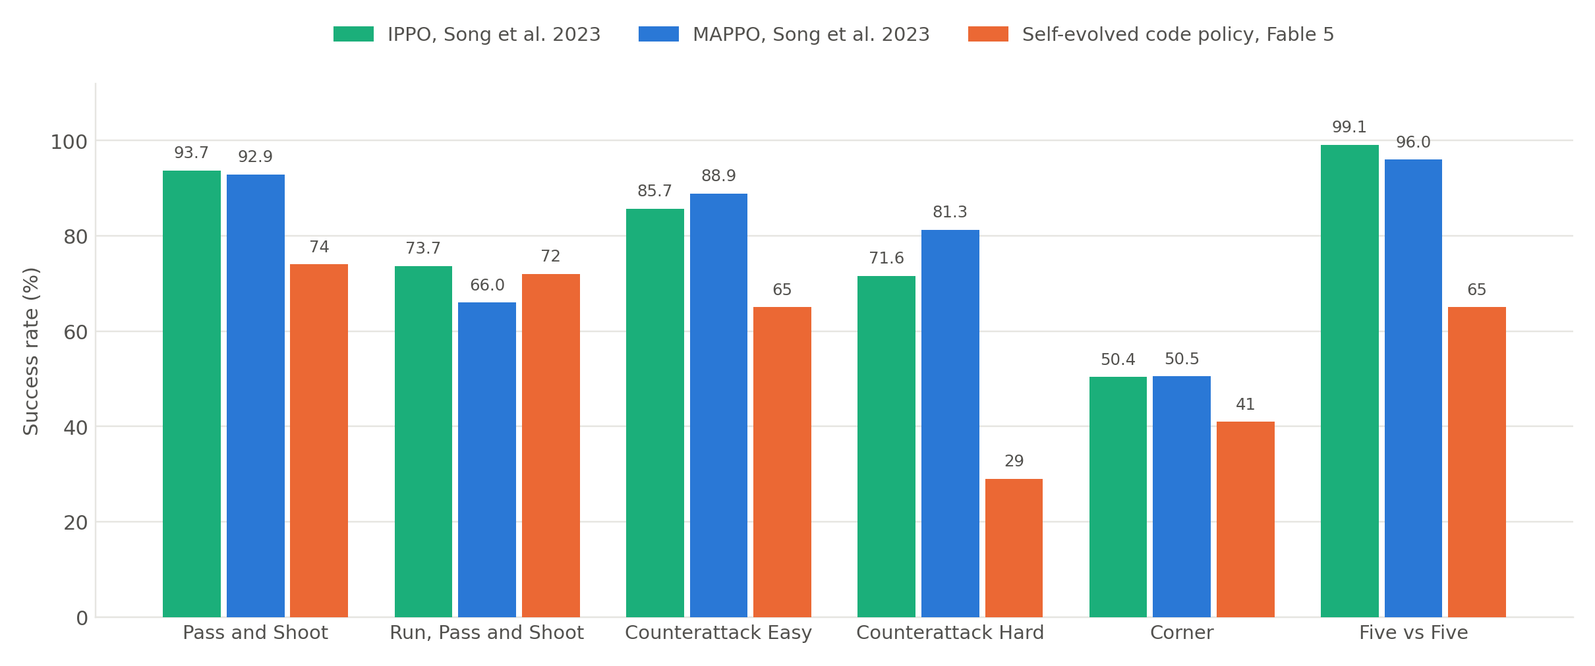
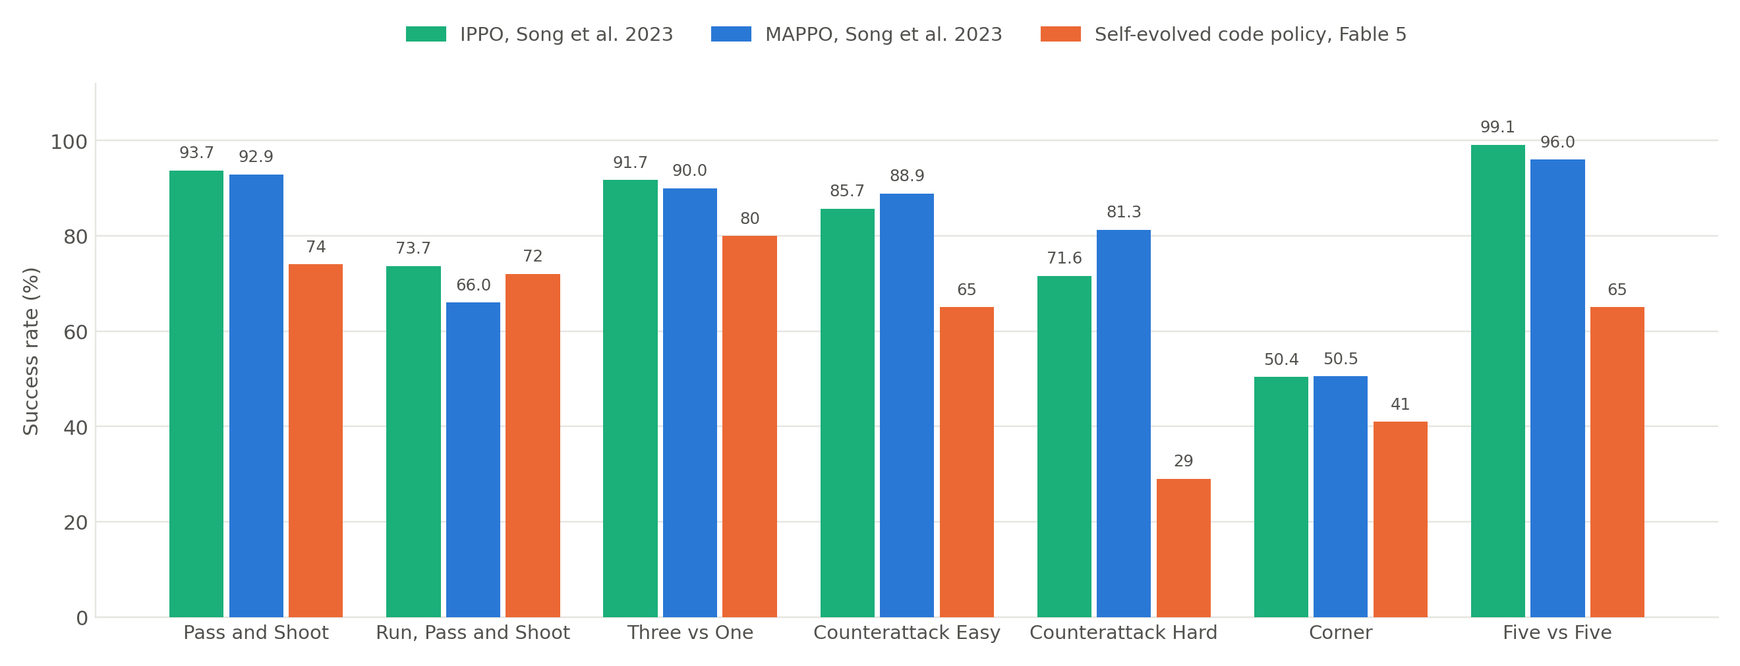
Restructure into Results and Analysis; add Three vs One, fixed-seed memorization, CA hard case study, strategy/control/policy-class comparison

diff --git a/_posts/2026-10-31-self-improvement-ends-with-a-proof.md b/_posts/2026-10-31-self-improvement-ends-with-a-proof.md
@@ -1,16 +1,16 @@
 ---
 title: "Recursive Self-Improvement for Multi-Agent Coordination: What Ten Rounds Discover in Overcooked and Football"
 date: 2026-10-31
-description: "A language model writes a joint controller, runs it, reads the trace, and rewrites it, ten times. In Overcooked the loop discovers coordination that passes trained MARL; in Google Research Football it strips coordination out. The round-by-round record shows how."
+description: "A language model writes a joint controller, runs it, reads the trace, and rewrites it. In Overcooked the loop discovers coordination that passes trained MARL; in Google Research Football it strips coordination out and, given a fixed seed, memorizes it. The round-by-round record shows how."
 tags: [recursive self-improvement, agents, code as policy, multi agent systems]
-reading_time: "10 min"
+reading_time: "14 min"
 permalink: /blog/self-improvement-ends-with-a-proof/
 image: /assets/img/research/overcooked-rsi-ten-rounds.png
 ---
 
-Multi-agent coordination is usually learned: a MARL algorithm samples millions of joint rollouts and shapes a policy whose agents divide labor, stagger their cycles, and hand objects to each other. This post asks whether a language model can discover the same coordination by recursive self-improvement instead, writing the joint controller as a program, watching it run, and rewriting it, with no gradient and no change to its weights. We ran that loop for a hard ten rounds on five Overcooked layouts with two frontier models, and on six Google Research Football scenarios with one under a softer budget, and kept every proposal, trace, and search script.
+Multi-agent coordination is usually learned: a MARL algorithm samples millions of joint rollouts and shapes a policy whose agents divide labor, stagger their cycles, and hand objects to each other. This post asks whether a language model can discover the same coordination by recursive self-improvement instead, writing the joint controller as a program, watching it run, and rewriting it, with no gradient and no change to its weights. We ran that loop for a hard ten rounds on five Overcooked layouts with two frontier models, and on seven Google Research Football scenarios with one under a softer budget, and we kept every proposal, trace, and search script.
 
-The answer depends on the environment, and the rounds show why. In Overcooked, both models pass the PPO self-play reference on every layout and the MATCHA reference on every layout but one, and on three of five layouts they finish at exactly the same score. They get there by the same route: the coordination they discover is a joint schedule, and the last rounds go to writing a planner that finds it. In football, where every kick is a random draw, the loop stays below both IPPO and MAPPO on every scenario, and each round removes coordination from the policy rather than adding it.
+The answer depends on the environment, and the rounds show why. In Overcooked, both models pass the PPO self-play reference on every layout and the MATCHA reference on every layout but one, and on three of five layouts they finish at exactly the same score. They get there by the same route: the coordination they discover is a joint schedule, and the last rounds go to writing a planner that finds it. In football, where every kick is a random draw, the loop stays below both IPPO and MAPPO on every scenario, each round removes coordination from the policy rather than adding it, and when we pinned the seed the loop memorized the seed instead of learning to play.
 
 <figure style="margin: 2rem 0; max-width: 100%;">
   <img src="{{ '/assets/img/research/overcooked-rsi-ten-rounds.png' | relative_url }}" alt="Five panels, one per Overcooked layout, showing the running best sparse return over ten rounds for Fable 5 and GPT 6.1 Sol, with PPO and MATCHA reference lines and light dots for each single round's raw score" style="display: block; width: 100%; height: auto;">
@@ -19,16 +19,20 @@ The answer depends on the environment, and the rounds show why. In Overcooked, b
 
 ## The loop, the benchmarks, and the experiments
 
-The loop is the simplest form of recursive self-improvement. The agent writes `policy.py`, a function from the joint observation to a joint action for all controlled agents; runs one official evaluation; reads the metrics, the step-level trace, the failure summary, and the rendered rollout; and writes the next policy. Each round also records a proposal with a hypothesis and an abandon criterion, so the strategy history is readable afterward. Ten rounds, then stop. The agent may build any offline tooling it wants, and both models did, but only the ten harness calls count and the model weights never change.
+The loop is the simplest form of recursive self-improvement. The agent writes `policy.py`, a function from the joint observation to a joint action for all controlled agents; runs one official evaluation; reads the metrics, the step-level trace, the failure summary, and the rendered rollout; and writes the next policy. Each round also records a proposal with a hypothesis and an abandon criterion, so the strategy history is readable afterward. Ten rounds, then stop. The agent may build any offline tooling it wants, and both models did, but only the official harness calls count and the model weights never change.
 
 <figure style="margin: 2rem 0; max-width: 100%;">
   <img src="{{ '/assets/img/research/rsi-loop.svg' | relative_url }}" alt="Four-step loop: the language model writes a policy, the harness runs one official evaluation, the run yields score, trace, failure summary, and video, and the model reads them and writes the next policy, ten times" style="display: block; width: 100%; height: auto;">
   <figcaption style="margin-top: .65rem; color: #65717d; font-size: .88rem; line-height: 1.5;"><strong>Figure 2.</strong> The loop. Write a policy, run it once, read what happened, write the next one. Ten rounds; the model weights never change.</figcaption>
 </figure>
 
-**Overcooked** (Carroll et al., 2019) is a two-chef kitchen: collect onions, fill a pot, start it cooking, plate the soup, deliver. The five classic layouts each force a different coordination problem, from a shared corridor to a wall that splits the kitchen so onions cannot cross. Dynamics are deterministic; we score sparse return at twenty points per soup over a 400-step episode with seed 0. **Google Research Football** (Kurach et al., 2020) is a physics engine with scripted opponents; we use six academy and small-sided scenarios with two to ten controlled players, evaluated on fresh random seeds every round. The football budget was softer than Overcooked's: four scenarios were asked for ten rounds or an early stop on target with no hard cutoff, and the two pass-and-shoot tasks were asked to keep going until a replicated 100 percent, so scenarios ran 8 to 46 rounds. Each round's evaluation rolls out 25 to 100 fresh seeds, and the agent decides how many; a leader is promoted only after an exact replication on a second batch.
+**Overcooked** (Carroll et al., 2019) is a two-chef kitchen: collect onions, fill a pot, start it cooking, plate the soup, deliver. The five classic layouts each force a different coordination problem, from a shared corridor to a wall that splits the kitchen so onions cannot cross. Dynamics are deterministic; we score sparse return at twenty points per soup over a 400-step episode with seed 0. **Google Research Football** (Kurach et al., 2020) is a physics engine with scripted opponents; we use seven academy and small-sided scenarios with two to ten controlled players, evaluated on fresh random seeds every round. The football budget was softer than Overcooked's: four scenarios were asked for ten rounds or an early stop on target with no hard cutoff, and the pass-and-shoot tasks and Three vs One were asked to keep going until a replicated 100 percent, so scenarios ran 8 to 88 rounds. Each round's evaluation rolls out 25 to 100 fresh seeds, and the agent decides how many; a leader is promoted only after an exact replication on a second batch.
 
 We ran Codex with GPT 6.1 Sol and Claude Code with Fable 5 on all five Overcooked layouts, each from an empty folder, and Fable 5 on the football scenarios. The PPO reference for Overcooked is self-play PPO from OvercookedV2 (Gessler et al., 2025); the MATCHA reference is the MATCHA training curve after one million transitions; the football references are IPPO and MAPPO (Yu et al., 2022) as measured by the Song et al. (2023) GRF benchmark.
+
+## Results
+
+In Overcooked both models finish above the PPO reference on all five layouts and above MATCHA on four, and their frontiers meet at the same score on Cramped Room, Asymmetric Advantages, and Forced Coordination. GPT 6.1 Sol reaches the frontier later from lower starts, including two layouts whose first policy scored zero, and ends one soup higher on Coordination Ring and Counter Circuit.
 
 | Layout | PPO self-play | MATCHA, 1M transitions | Fable 5 (round reached) | GPT 6.1 Sol (round reached) |
 | --- | ---: | ---: | ---: | ---: |
@@ -38,68 +42,88 @@ We ran Codex with GPT 6.1 Sol and Claude Code with Fable 5 on all five Overcooke
 | Forced Coordination | 199 | 240 | **340** (7) | **340** (6) |
 | Counter Circuit | 163 | 20 | 260 (9) | **280** (8) |
 
-## Results
-
-### Coordination is discovered in three rungs, and the last rung is a planner
-
-The ten proposals for any layout, from either model, follow the same progression. The first rung is reactive rules: each chef gets a priority list, fetch an onion if a pot needs one, grab a dish if a soup is ready. Coordination at this rung is accidental. It scores between zero and respectable and produces both failures behind every zero in Figure 1: the swap deadlock, where two agents in a one-tile corridor each decide the other should yield, and a wrong map fact. GPT's first Coordination Ring policy aimed at the wrong onion station and executed 395 interactions that did nothing.
-
-The second rung is explicit division of labor. The agent reads the trace, finds one chef idling while the other walks, and assigns roles: a loader and a server, or a supplier on the dispenser side and a courier on the pot side. It then adds staging, onions placed on a counter during the cook timer so the next batch starts the tick the pot clears. Counters become asynchronous buffers between the two agents, a producer-consumer protocol over shared memory. Fable's Forced Coordination policy names its counters a lane, a buffer, and a stage slot, each with its own rule for what may be placed there. Most of the score arrives on this rung.
-
-The third rung is the one that makes the two models converge. The agent stops writing coordination rules and writes a planner. In all ten experiments the final frontier policy is an open-loop joint schedule, a fixed sequence of actions for both agents with a per-tick guard that checks the live state against the expected state and falls back to the reactive controller on mismatch. In eight of the ten, a search program the agent wrote produced the schedule. GPT built a compact model of each layout, validated it against the official traces, and ran beam search over joint primitive actions; its Coordination Ring search covered 1.49 million states. Fable ran a 36,000-rollout coordinate descent in Asymmetric Advantages and about 830,000 plan mutations in Counter Circuit. Once both models are searching the same deterministic transition system, the ceiling belongs to the environment, and the scores match.
-
-Two properties of the discovered coordination follow. It is centralized in design and free to decentralize: Fable's tenth Cramped Room run replaced its joint controller with two independent controllers that recompute the same plan from shared state, and the joint action sequence matched tick for tick. And it is cheap: GPT 6.1 Sol finished each layout's ten rounds in 16 to 30 minutes of wall clock, because most of the work is the planner's.
-
-### The coordination failure that costs rounds is phase-locking, not deadlock
-
-Deadlocks are loud: a zero, fixed in one round. The quiet failure that consumed the most rounds is what Fable called a phase attractor and GPT called synchronized pots. Every layout has two pots and a twenty-tick cook timer, and the throughput-optimal schedule staggers them so one cooks while the other loads. Reactive rules respond to whichever pot is emptier, which pulls both pots into the same phase, so both soups come ready at once and one waits. Fable's Coordination Ring baseline settled into a 24.5-tick delivery gap this way. GPT's Counter Circuit runs delivered in pairs eight ticks apart with 48-tick gaps between pairs. Fable's Asymmetric Advantages runs oscillated between 460 and 480 for eight rounds because every gating rule it added moved the attractor to the gate's own boundary.
-
-Phase is a global property and each reactive rule sees local state, so no rule can hold two cycles apart. The fix in every case was to precompute the stagger. Under full observability and deterministic dynamics, the hard part of two-agent cooperation is not communication, since both agents can compute the same plan from the same state. The hard part is that locally sensible rules converge to bad periodic orbits, and leaving them needs a plan with a clock in it.
-
-### After convergence the rounds go to self-certification, and two certificates were wrong
-
-Fable reaches 260 on Cramped Room at round two and the frontier never moves again. GPT reaches 360 on Coordination Ring at round six and ties it three more times. Neither model idles in those rounds. Each spends them proving that the frontier is the ceiling.
-
-Sometimes the proof holds. Fable's final Cramped Room run is an exhaustive BFS that certifies two lower bounds on cook-start timing and concludes that a fourteenth pickup cannot occur before tick 407. GPT, on the same layout, wrote its own bound with a C++ and a Python search and reached the same 260. Both models also agree, by different arguments, that 340 caps Forced Coordination.
-
-Sometimes it does not. Fable's Coordination Ring notes state a tick-conservation law, 44 agent-ticks per soup, 800 ticks per episode, therefore seventeen soups and 340. Fable then ran a beam search built to falsify this, with pruning that killed any branch behind an eighteen-soup pace, found nothing, and wrote *falsification attempt failed, supports optimality*. GPT scored 360 on the same layout, seed, and horizon by mixing ring circulation with center-counter handoffs. The conservation law described the macro-actions Fable had chosen to search over, and the falsifying search inherited them. Counter Circuit went the same way: Fable measured 57 agent-ticks per soup at saturation, called it the floor, and stopped at 260; GPT delivered fourteen soups for 280 with a counter relay.
-
-Nothing inside either loop could have caught this. We found it by laying the two independent runs side by side. A self-improving agent has no round-level signal that separates *I found the maximum* from *I found the maximum of what I searched*, and it stops when it runs out of doubt rather than when the environment runs out of reward.
-
-### Under random dynamics the loop removes coordination and stays below MAPPO
-
-We ran the same loop on Google Research Football with fresh random seeds on every evaluation. The agent traced the randomness to the engine: every kick draws a worst-case factor from the engine's random generator, so a correctly aimed shot still loses a quarter of its power or crosses outside the post on a bad draw. The agent counted 109 wins out of 109 when the first shot went in and 35 losses out of 36 when it was parried. Opponents and keeper decide differently on every seed; saves deflect rather than catch; keeper dive timing and the controller-to-player mapping live outside the observation. Pin the seed and the engine stops being the problem: in an earlier fixed-seed run, Codex GPT 5.5 solved Empty Goal, Empty Goal Close, and Run to Score at 100 percent on round zero.
+In football the code policy ends below both IPPO and MAPPO on all seven scenarios. The gap is small on the two-attacker tasks and on Three vs One, and large wherever more players or a full match are involved.
 
 <figure style="margin: 2rem 0; max-width: 100%;">
-  <img src="{{ '/assets/img/research/football-rsi-rounds.png' | relative_url }}?v=20261031b" alt="Six panels, one per football scenario, showing each round's measured win rate as a dot sized by episodes, the frontier of rounds confirmed on 100 or more episodes, IPPO and MAPPO reference lines, and two policy-class-change markers on Pass and Shoot" style="display: block; width: 100%; height: auto;">
-  <figcaption style="margin-top: .65rem; color: #65717d; font-size: .88rem; line-height: 1.5;"><strong>Figure 3.</strong> Round-by-round self-evolution in football, the counterpart of Figure 1. Each dot is one round's measured win rate, sized by the number of episodes in that evaluation; the frontier advances only on rounds confirmed with 100 or more episodes, pooling an exact replication with the round it replicates. Football had no hard round cap, so scenarios ran 8 to 46 rounds. Reference lines are IPPO and MAPPO from Song et al. 2023. The two triangles on Pass and Shoot mark the rounds where the agent changed policy class: a scripted prefix with a PPO subgame, then a trained rMAPPO network.</figcaption>
+  <img src="{{ '/assets/img/research/football-rsi-rounds.png' | relative_url }}?v=20261031c" alt="Seven panels, one per football scenario, showing each round's measured win rate as a dot sized by episodes, the frontier of confirmed rounds, IPPO and MAPPO reference lines, policy-class-change markers on Pass and Shoot, and excluded seed-reading rounds on Three vs One" style="display: block; width: 100%; height: auto;">
+  <figcaption style="margin-top: .65rem; color: #65717d; font-size: .88rem; line-height: 1.5;"><strong>Figure 3.</strong> Round-by-round self-evolution in football, the counterpart of Figure 1. Each dot is one round's measured win rate, sized by the number of episodes in that evaluation; the frontier advances only on rounds confirmed at the scenario's validation size, 100 episodes, or 300 on Three vs One, pooling an exact replication with the round it replicates. Football had no hard round cap, so scenarios ran 8 to 88 rounds. Reference lines are IPPO and MAPPO from Song et al. 2023. The two triangles on Pass and Shoot mark the rounds where the agent changed policy class: a scripted prefix with a PPO subgame, then a trained rMAPPO network. The crosses on Three vs One are three rounds that scored 100 percent by reading the evaluator seed; they are excluded from the frontier.</figcaption>
 </figure>
 
 <figure style="margin: 2rem 0; max-width: 100%;">
-  <img src="{{ '/assets/img/research/football-mappo-vs-code-policy.png' | relative_url }}?v=20261031b" alt="Grouped bar chart of success rate on six Google Research Football scenarios: IPPO and MAPPO from Song et al. 2023 versus the self-evolved Fable 5 code policy" style="display: block; width: 100%; height: auto;">
-  <figcaption style="margin-top: .65rem; color: #65717d; font-size: .88rem; line-height: 1.5;"><strong>Figure 4.</strong> Final success rate under fresh random seeds. IPPO and MAPPO values are from Table 3 of Song et al. 2023: the maximum mean win rate during training, after 10 to 30 million environment steps on academy scenarios and 100 million on Five vs Five. Code-policy values are the frontier policy of each self-evolution run, measured on 100 fresh seeds.</figcaption>
+  <img src="{{ '/assets/img/research/football-mappo-vs-code-policy.png' | relative_url }}?v=20261031c" alt="Grouped bar chart of success rate on seven Google Research Football scenarios: IPPO and MAPPO from Song et al. 2023 versus the self-evolved Fable 5 code policy" style="display: block; width: 100%; height: auto;">
+  <figcaption style="margin-top: .65rem; color: #65717d; font-size: .88rem; line-height: 1.5;"><strong>Figure 4.</strong> Final success rate under fresh random seeds. IPPO and MAPPO values are from Table 3 of Song et al. 2023: the maximum mean win rate during training, after 10 to 30 million environment steps on academy scenarios and 100 million on Five vs Five. Code-policy values are the frontier policy of each self-evolution run, measured on 100 or more fresh seeds.</figcaption>
 </figure>
 
 | Scenario | IPPO, mean (SD) | MAPPO, mean (SD) | Code policy, Fable 5 |
 | --- | ---: | ---: | ---: |
 | Pass and Shoot | 93.7 (0.9) | 92.9 (2.6) | 74 |
 | Run, Pass and Shoot | 73.7 (13.4) | 66.0 (6.3) | 72 |
+| Three vs One | 91.7 (3.1) | 90.0 (3.2) | 80 |
 | Counterattack Easy | 85.7 (6.6) | 88.9 (6.6) | 65 |
 | Counterattack Hard | 71.6 (4.9) | 81.3 (9.6) | 29 |
 | Corner | 50.4 (10.3) | 50.5 (7.2) | 41 |
 | Five vs Five | 99.1 (0.6) | 96.0 (1.8) | 65 |
 
-Three things change under fresh seeds, each visible in Figure 3 and the run logs. First, the loop optimizes a sample. A Five versus Five candidate looked like a gain on a sixteen-seed screen and was rejected on a fifty-seed confirmation with the note *screen was noise*; a large share of the rounds went to re-measuring. Second, the planner disappears. The third rung needs a transition function to search over, and in football an offline model cannot be validated against official traces, so the agent stays on the second rung: hand-edited rules screened by twenty-minute noisy rollouts.
+## Analysis
 
-Third, and this is the coordination result, every handoff becomes a risk, so the evolved policy has fewer of them. In Overcooked, handoffs are deterministic and free, and the loop added them: GPT's best Coordination Ring schedule contains 42 counter exchanges. In football the loop deleted them. The Five versus Five escape pass was rejected with *pass = turnover*. The Counterattack Hard wing draw and cutback converted 1 of 54 entries. On corners, crosses into the box converted 0 percent, ground passes to a shooter 5 percent, screens 20 percent, and all three families were abandoned. The agent's phrase for the mechanism is *transport compounds*. The final football policies are a single carrier and a single shot, with teammates holding defensive stations. Spatial partition survives because it needs no handoff; temporal sequencing between agents dies because in a random engine it is a product of per-touch success probabilities.
+### Overcooked: the loop turns coordination into a schedule
 
-MAPPO wins for the same reason. Its action distribution over passes and shots was shaped by the noise during training, so it hedges where a program commits. The agent reached this conclusion itself. On pass-and-shoot, after the code-policy line peaked at 74 percent and a scripted-prefix plus PPO hybrid reached 82, it trained an rMAPPO network with the reference implementation for 2.8 million steps and deployed the checkpoint at 93.5 percent, against the 94.92 reported by Yu et al. for the same scenario. Its best self-improvement step was to change the policy class.
+Overcooked is a small, fully observed, deterministic two-agent game. One rollout is the whole environment, so every trace diagnosis is a fact about the task, and every edit that saves a tick saves it on every future evaluation. The ten proposals for any layout, from either model, follow the same three rungs. The first is reactive rules: each chef gets a priority list, fetch an onion if a pot needs one, grab a dish if a soup is ready. Coordination at this rung is accidental. It scores between zero and respectable and produces both failures behind every zero in Figure 1: the swap deadlock, where two agents in a one-tile corridor each decide the other should yield, and a wrong map fact. GPT's first Coordination Ring policy aimed at the wrong onion station and executed 395 interactions that did nothing.
+
+The second rung is explicit division of labor. The agent reads the trace, finds one chef idling while the other walks, and assigns roles: a loader and a server, or a supplier on the dispenser side and a courier on the pot side. It then adds staging, onions placed on a counter during the cook timer so the next batch starts the tick the pot clears. Counters become asynchronous buffers between the two agents, a producer-consumer protocol over shared memory. Fable's Forced Coordination policy names its counters a lane, a buffer, and a stage slot, each with its own rule for what may be placed there. Most of the score arrives on this rung.
+
+The third rung is the one that makes the two models converge. The agent stops writing coordination rules and writes a planner. In all ten experiments the final frontier policy is an open-loop joint schedule, a fixed sequence of actions for both agents with a per-tick guard that checks the live state against the expected state and falls back to the reactive controller on mismatch. In eight of the ten, a search program the agent wrote produced the schedule. GPT built a compact model of each layout, validated it against the official traces, and ran beam search over joint primitive actions; its Coordination Ring search covered 1.49 million states. Fable ran a 36,000-rollout coordinate descent in Asymmetric Advantages and about 830,000 plan mutations in Counter Circuit. Once both models are searching the same deterministic transition system, the ceiling belongs to the environment, and the scores match. The discovered coordination is centralized in design and free to decentralize: Fable's tenth Cramped Room run replaced its joint controller with two independent controllers that recompute the same plan from shared state, and the joint action sequence matched tick for tick. It is also cheap: GPT 6.1 Sol finished each layout's ten rounds in 16 to 30 minutes of wall clock, because most of the work is the planner's.
+
+### Overcooked: the failure that costs rounds is phase-locking, and the rounds after convergence go to proofs
+
+Deadlocks are loud: a zero, fixed in one round. The quiet failure that consumed the most rounds is what Fable called a phase attractor and GPT called synchronized pots. Every layout has two pots and a twenty-tick cook timer, and the throughput-optimal schedule staggers them so one cooks while the other loads. Reactive rules respond to whichever pot is emptier, which pulls both pots into the same phase, so both soups come ready at once and one waits. Fable's Coordination Ring baseline settled into a 24.5-tick delivery gap this way; GPT's Counter Circuit runs delivered in pairs eight ticks apart with 48-tick gaps between pairs; Fable's Asymmetric Advantages runs oscillated between 460 and 480 for eight rounds because every gating rule it added moved the attractor to the gate's own boundary. Phase is a global property and each reactive rule sees local state, so no rule can hold two cycles apart. The fix in every case was to precompute the stagger.
+
+Once the frontier flattens, the remaining rounds go to proving that it is the ceiling. Sometimes the proof holds: Fable's final Cramped Room run is an exhaustive BFS that certifies a fourteenth pickup cannot occur before tick 407, and GPT's independent bound on the same layout reaches the same 260; both models also agree, by different arguments, that 340 caps Forced Coordination. Sometimes it does not. Fable's Coordination Ring notes state a tick-conservation law, 44 agent-ticks per soup and 800 ticks per episode, therefore seventeen soups and 340, and a beam search built to falsify it found nothing. GPT scored 360 on the same layout, seed, and horizon by mixing ring circulation with center-counter handoffs; the conservation law described the macro-actions Fable had chosen to search over, and the falsifying search inherited them. Counter Circuit went the same way, 260 declared the ceiling and 280 reached by the other model with a counter relay. Nothing inside either loop could have caught this; we found it by laying the two independent runs side by side. A self-improving agent stops when it runs out of doubt rather than when the environment runs out of reward.
+
+### Football: the observation does not contain the outcome
+
+Football is the opposite benchmark on every axis that mattered above. The engine draws a worst-case factor on every kick, so a correctly aimed shot still loses a quarter of its power or crosses outside the post on a bad draw; opponents and the keeper decide differently on every seed; saves deflect rather than catch; keeper dive timing and the controller-to-player mapping live outside the observation. The agent measured the consequence directly on pass-and-shoot: 109 wins out of 109 when the first shot went in, 35 losses out of 36 when it was parried. In Three vs One it went further and tested whether the outcome is predictable at all. Round 82 trained an observation-only outcome classifier on 1,200 seeds, one randomly assigned option per seed, and measured held-out accuracy at 69.2 percent against a 68.3 percent base rate. The observation at the decision point carries almost no information about whether the shot that follows will go in. A program maps each observation to one action, so no program can hedge against a future the observation does not reveal.
+
+### Football: a case study of Counterattack Hard
+
+Counterattack Hard shows what the loop can and cannot move. Four controlled attackers run at two center-backs and a keeper; the free-form loop spent six rounds porting the Counterattack Easy strategy, then high balls over the back line, a wing-first carry, and a cutback, and reached 18 percent. A trace autopsy of that policy over 100 episodes overturned its own narrative: the wing draw and cutback converted 1 of 54 entries, and 17 of 18 wins were the same event, a shot from the central seam at x between 0.67 and 0.79 with the keeper home, which converts 47 percent of the time but was attempted in only 38 episodes. The next round deleted the wing phase and shot proactively from the seam. Attempts rose from 38 to 59, conversion stayed at 49 percent, and the win rate rose to 29. Four more rounds of insurance shots, rebound pounces, box-crash runners, and a second high ball changed nothing that survived confirmation.
+
+The validated model of this scenario is one line: win rate equals the seam-shot attempt rate times a conversion rate of about 48 percent. Scripting controls the first factor and the loop maximized it. The second factor is shot randomness, a strip in the corridor before x equals 0.64, or a parry scramble lost to the pack, and none of the three responds to a rule. The agent's own note calls this the RL-shaped gap and names the remedy, an RL finishing subgame or full MAPPO, which is what it later did on pass-and-shoot.
+
+### Football: how the search runs and where it stalls
+
+The loop in football is hand-edited rules screened by noisy rollouts. A round proposes a strategy family, screens it on 16 to 30 seeds, and confirms on 100 only if the screen looks good; a leader is promoted only after an exact replication. The screens are cheap and the confirmations are not, and the gap between them is the first place the loop stalls. On Three vs One, round 1 scored 63 percent and its exact replication at round 22 scored 46. On Five vs Five, a candidate that looked like a gain on a 16-seed screen was rejected at 50 with the note *screen was noise*. A large share of every football campaign went to re-measuring.
+
+Three vs One is the longest record, 88 honest rounds, and it shows where the search goes when it cannot stall on noise. Rounds 0 to 48 explored more than twenty strategy families: wide bypass, cutbacks, long and high passes, shot-direction variants, dribbling, receiver selection, keeper screens, timing guards. The repeatable ceiling of reactive rules was 77 percent. Rounds 70 to 73 tried coordination that replaces the one-on-one duel with a teammate, a rebound relay to a second attacker and lateral squares at every depth; the relay converted 1 of 14 and the squares 13 percent, because GRF short passes lead the runner and the keeper resets during the flight. The final leader, 80 percent on 300 seeds, came from reading the scenario config and finding offsides disabled: park the third attacker at the far post and let him harvest parries. The loop's best discovery was an exploit of the rules, not a coordination pattern.
+
+That is the coordination result in one line. In Overcooked, handoffs are deterministic and free, and the loop added them: GPT's best Coordination Ring schedule contains 42 counter exchanges. In football every handoff is a random event, and the loop deleted them. The Five vs Five escape pass was rejected with *pass = turnover*; on corners, crosses converted 0 percent, ground passes 5, screens 20, and all three families were abandoned. The agent's phrase for the mechanism is *transport compounds*. The final football policies are a single carrier and a single shot, with teammates holding defensive stations. Spatial partition survives because it needs no handoff; temporal sequencing between agents dies because in a random engine it is a product of per-touch success probabilities.
+
+### Football: fix the seed, and the loop memorizes it
+
+Before the random-seed protocol we ran the same loop with a fixed development seed, as in Overcooked. GRF is deterministic for a given engine seed, so this makes football look like Overcooked to the agent, and the agent treated it that way. A held-out audit on seeds the loop never saw, 1,000 episodes per task, shows what it had learned.
+
+| Task | Fixed-seed score | Held-out, 1,000 episodes |
+| --- | ---: | ---: |
+| Empty Goal, Empty Goal Close, Run to Score | 1.00 | 1.00 |
+| Three vs One | 1.00 at round 1 | 0.20 |
+| Counterattack Easy | 1.00 pooled | 0.00 |
+| Counterattack Hard | 1.00 | 0.00 |
+| Pass and Shoot | high | 0.20 |
+| Five vs Five | 0.90 on 500 unseen episodes | the one robust result |
+
+The three trivial tasks transfer because nothing random happens before the goal. Everywhere else the policies were scripts keyed to one trajectory: Counterattack Easy's policy branched on geometry literals read off its development seed, and Corner's best run was a seed-fingerprint router that recognized which of the promotion seeds it was on from the first observation and dispatched to a memorized plan, 500 of 500 on the target evaluation. The Three vs One diagnostic makes the mechanism explicit. A policy that hashes the raw observation at step two and looks up the winning branch scores 200 of 200 on the fixed set and 73 of 100 on fresh seeds. Under the random-seed protocol the same instinct reappeared as round 49: the policy read the evaluator seed, spawned nested environments with that seed, swept sixteen candidates, and executed the one it had already seen score, 100 of 100 and then 300 of 300. We excluded it. Given any access to determinism, the loop finds it, and a fixed seed converts the football benchmark into a lookup table.
+
+### Football: is the gap strategy, control, or policy class?
+
+We tested each candidate explanation directly. Strategy: a second Five vs Five campaign gave the agent named futsal formations instead of free invention, a 1-2-1 diamond, a 2-2 square with a far-post keeper screen, a gated outlet pass. The best formation reached 78 percent on 50 fresh seeds against 65 for free-form evolution, a real gain, and still far below the 96 to 99 of IPPO and MAPPO. Control: on Counterattack Easy, letting the engine assign the four controlled players by ball proximity, the original benchmark interface, raised the frontier from 35 under a fixed roster to 65, because the engine hands the agent the receiver it needs. Policy class: on pass-and-shoot, after the code line peaked at 74, a scripted prefix with a PPO subgame for the finish reached 82, and an rMAPPO network trained by the agent with the reference implementation reached 93.5 against the 94.92 reported by Yu et al.
+
+Strategy and control each buy ten to thirty points. Only changing the policy class closes the gap, because the gap is conversion under randomness, a decision the observation does not determine, and that is what a policy trained on millions of random outcomes represents and a program does not.
 
 ## What this suggests
 
-Recursive self-improvement discovers multi-agent coordination when the coordination can be written down as a schedule and checked against a deterministic world. The loop's real product in Overcooked was not a clever rule but a search program and a certificate, and the two models converged because the certificate is the environment's. Where the world resamples, the loop cannot build the searchable model, cannot trust a single trace, and learns to avoid the inter-agent handoffs that coordination is made of.
+Recursive self-improvement discovers multi-agent coordination when the coordination can be written down as a schedule and checked against a deterministic world. The loop's real product in Overcooked was not a clever rule but a search program and a certificate, and the two models converged because the certificate is the environment's. Where the world resamples, the loop cannot build the searchable model, cannot trust a single trace, learns to avoid the inter-agent handoffs that coordination is made of, and, offered a fixed seed, memorizes it.
 
-Three changes to the harness follow. Budget official evaluations for falsifying the agent's model of the environment rather than for scoring candidates; both models already used them that way. Give ceiling claims an adversary, a second decomposition or a checker that runs the certificate, and make the stopping rule external, since tying the frontier three times is evidence of a local optimum and the response is a change of representation rather than a proof. Keep the cap: ten rounds covered every real gain, and a longer budget would have produced longer proofs.
+Three changes to the harness follow. Budget official evaluations for falsifying the agent's model of the environment rather than for scoring candidates; both models already used them that way. Give ceiling claims an adversary, a second decomposition or a checker that runs the certificate, and make the stopping rule external. Keep fresh seeds and replication as the only evaluation the agent can see, because every shortcut to determinism was taken when it existed.
 
 The open question is on the stochastic side. The 82 percent hybrid on pass-and-shoot, scripted macro-coordination with a learned subgame for the random touches, is one data point for a split that keeps the readable joint plan where dynamics are predictable and hands the handoffs to a policy trained on the noise. Where that line falls in a given task is what we want to measure next.
 
